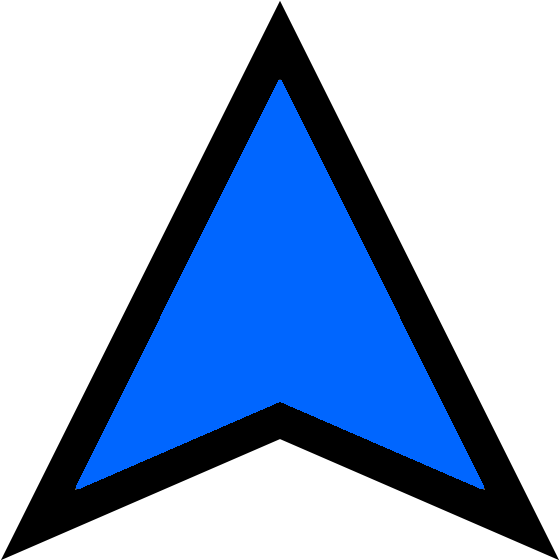
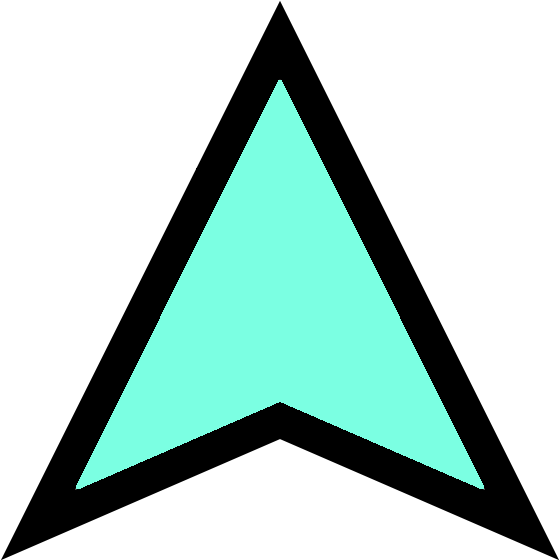
Add in location functionality with updated color scheme

Changed region(s): [[0.1214, 0.1518, 0.8804, 0.8804]]

diff --git a/ArchitectWorld/js/modelatgeolocation.js b/ArchitectWorld/js/modelatgeolocation.js
@@ -1,39 +1,46 @@
 var World = {
-
+    
 	PATH_INDICATOR : "assets/directionIndicator.png",
 	PATH_MODEL_WT3 : "assets/arrow.wt3",
 	MSG_MODEL_VISIBLE : "Thread Ahead!",
 	MSG_MODEL_NOTVISIBLE : "Invisible Thread!",
-
+    
+   
+    
 	init: function initFn() {
-		
-		// wait for first location signal before creating the experience to ensure you know user's location during setup process
-		AR.context.onLocationChanged = function(latitude, longitude, altitude, accuracy){
-
-			// store user's location so you have access to it at any time
-			World.myLocation = {"latitude": latitude, "longitude" : longitude, "altitude" : altitude };
-
-			// create model around the user on very first location update
-			if (!World.created) {
-				document.getElementById('loadingMessage').innerHTML = 'Loading...';
-				World.created = true;
-				World.createModelAtLocation(World.myLocation);
-			}
-		};
-
+        // Call server for last location
+        $.ajax({
+               url: "https://evening-plateau-54300.herokuapp.com/sushi.json",
+               dataType: "json",
+               type: "GET"
+               }).done(function(response){
+                    AR.context.onLocationChanged = function(latitude, longitude, altitude, accuracy){
+                      World.myLocation = {"latitude": latitude, "longitude" : longitude, "altitude" : altitude };
+                      if (!World.created) {
+                         var serverLatitude = parseFloat(response["thread"][0]);
+                         var serverLongitude = parseFloat(response["thread"][1]);
+                         document.getElementById('loadingMessage').innerHTML = "Latitude:"+serverLatitude+ "Longitude:"+serverLongitude;
+                         World.created = true;
+                         World.createModelAtLocation(World.myLocation, serverLatitude, serverLongitude);
+                      }
+                    };
+                })
 		
 	},
 
-	createModelAtLocation: function createModelAtLocationFn(location) {
-
-        var myHouse = new AR.GeoLocation(37.784277, -122.403224)
+	createModelAtLocation: function createModelAtLocationFn(location, lat, long) {
+        
+        var myHouse = new AR.GeoLocation(lat, long)
         var distance = myHouse.distanceToUser();
+        var distance_model = distance > 500 ? [World.model] : [World.indicatorDrawable2];
 
 		// place object around the user, in this case just a few meters next to the user. Note that the object will stay where it is, so user can move around it.
 		World.modelGeoLocation = new AR.GeoLocation(myHouse.latitude, myHouse.longitude, AR.CONST.UNKNOWN_ALTITUDE);
 		
-		// load model
         
+        
+        
+		// load model
 		World.model = new AR.Model(World.PATH_MODEL_WT3, {
 
 			// trigger animation once asset was loaded
@@ -61,6 +68,7 @@ var World = {
                                                         
 		               indicator: [World.indicatorDrawable],
                        cam : [World.indicatorDrawable2]
+                       
 		            },
 		            onEnterFieldOfVision: function() {
 		            	World.modelVisible = true;
@@ -93,7 +101,7 @@ var World = {
 				y: 0,
 				z: 0
 			},
-			rotate: {
+			rotate: { 
                 roll:-25, //z
 				heading: 90, //x
 				tilt: 180 //y
@@ -108,13 +116,40 @@ var World = {
 
 	worldError: function worldErrorFn(msg) {
 		document.getElementById('loadingMessage').innerHTML = msg ? msg : 'unexpected error';
-	}
+	},
+    
+    // get request to the server to show the last location sent to the server
+    showLocation: function showLocationFn() {
+        
+            $.ajax({
+                   url: "https://evening-plateau-54300.herokuapp.com/sushi.json",
+                   dataType: "json",
+                   type: "GET"
+                   }).done(function(response){
+                        document.getElementById('loc').innerHTML = "Server response: " + response["thread"][0] + response["thread"][1];
+                    })
+        
+    },
+
+    // post request to the server to save the current location
+    saveLocation: function saveLocationFn() {
+        
+        var latitude = World.myLocation.latitude;
+        var longitude = World.myLocation.longitude;
+        $.ajax({
+               url: "https://evening-plateau-54300.herokuapp.com/latitude/" + latitude + "/longitude/" +longitude,
+               type: "POST"
+        }).done(function(response){
+                
+                })
+    }
+    
 };
 
 World.init();
 
-var current_location = new AR.Geolocation(World.myLocation.latitude,World.myLocation.longitude);
-var model_location = new AR.Geolocation(37.780694, -122.403704);
-var distance = model_location.distanceTo(current_location);
-console.log(distance);
+//var current_location = new AR.Geolocation(World.myLocation.latitude,World.myLocation.longitude);
+//var model_location = new AR.Geolocation(37.780694, -122.403704);
+//var distance = model_location.distanceTo(current_location);
+//console.log(distance);
 

diff --git a/ArchitectWorld/index.html b/ArchitectWorld/index.html
@@ -4,13 +4,22 @@
 <head>
     <meta http-equiv="Content-Type" content="text/html; charset=UTF-8" />
     <meta content="width=device-width,initial-scale=1,maximum-scale=5,user-scalable=yes" name="viewport">
+         <script src="https://ajax.googleapis.com/ajax/libs/jquery/1.12.4/jquery.min.js"></script>
     <title>Dragon Sample</title>
     <script src="architect://architect.js"></script>
     <link rel="stylesheet" href="css/default.css">
+    <script type="text/JavaScript">
+        function AutoRefresh( t ) {
+            setTimeout("location.reload(true);", t);
+        }
+    </script>
+    
 </head>
 
-<body>
+<body onload="JavaScript:AutoRefresh(5000);">
     <div id="loadingMessage" class="info">Waiting for GPS ...</div>
+    <div id ="loc" class="link"><a href="javascript: World.showLocation()">Show Location</a></div>
+    <div id ="save" class="link"><a href="javascript: World.saveLocation()">Save Location</a></div>
     <script src="js/modelatgeolocation.js"></script>
 </body>
 </html>

diff --git a/ArchitectWorld/css/default.css b/ArchitectWorld/css/default.css
@@ -1,14 +1,23 @@
 .info {
 	font-size: 200%;
     font-family: Helvetica;
-	position: absolute;
+    color: White;
+	position: relative;
 	width: 100%;
 	padding-top: 24px;
 	padding-bottom: 24px;
-	background-color: #008080;
+	background-color: #0abab5;
 	text-align: center;
 	top: 0;
 	left: 0;
-	opacity: 0.7;
+	opacity: 0.9;
 	display: table;
+}
+
+.link {
+    background-color: #0abab5;
+    opacity: 1;
+    text-align: center;
+    color: White;
+    
 }
